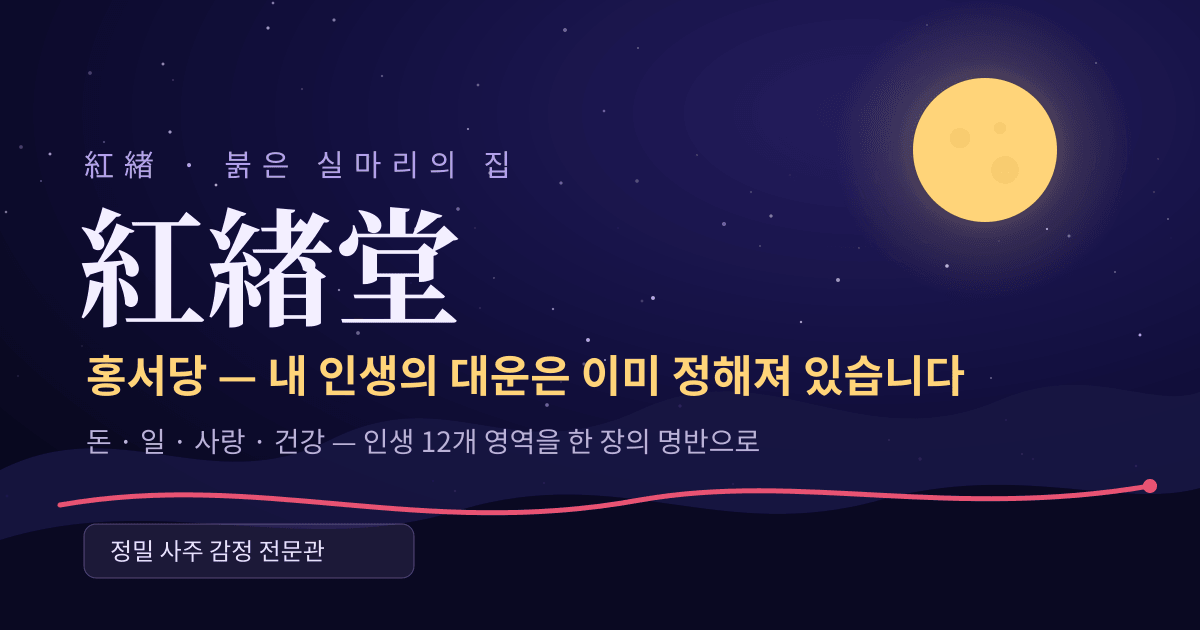
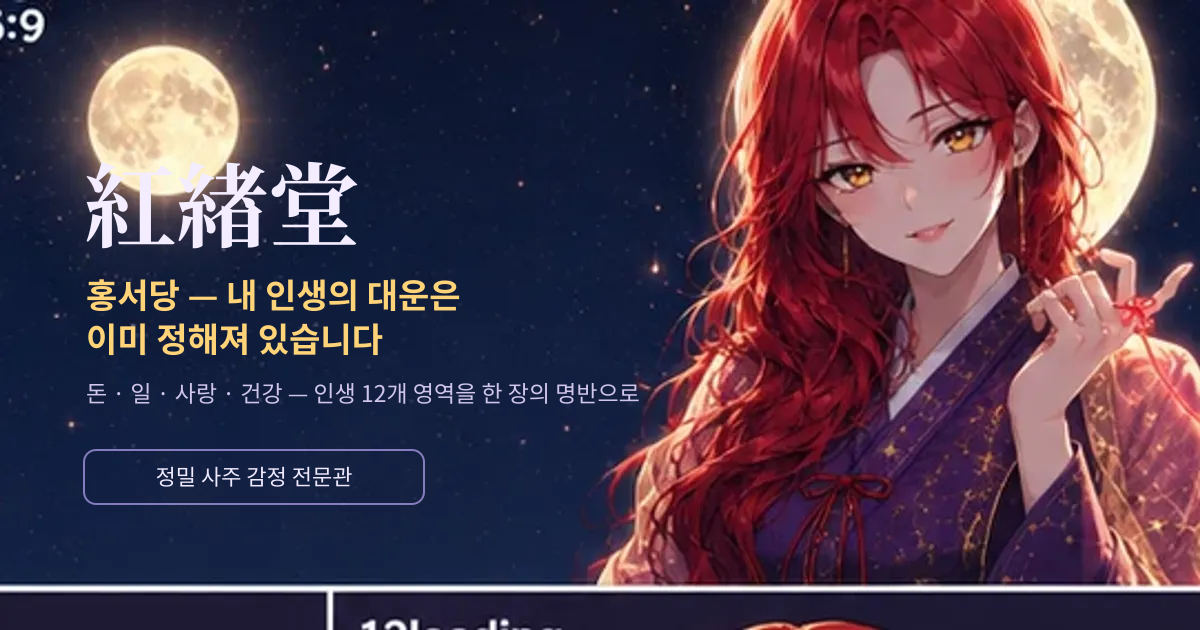
Add files via upload

diff --git a/app/page.js b/app/page.js
@@ -6,7 +6,7 @@
 // ============================================================
 import { useState, useEffect } from "react";
 import { CONFIG } from "../lib/content";
-import ElderArt from "./reading/ElderArt";
+
 
 const LANTERNS = [
   { id: "total", icon: "🔮", t: "전통 자미두수 감정", d: "12개 영역·10년 대운 — 인생 전체를 한 권으로", accent: "#c4b0ff", main: true },
@@ -36,16 +36,20 @@ export default function Hub() {
 
   return (
     <main className="wrap" style={{ paddingTop: 54, paddingBottom: 60, minHeight: "100vh" }}>
-      {/* 월하노인 */}
-      <div style={{ marginBottom: 10 }}><ElderArt size={172} /></div>
-
-      <div className="eyebrow" style={{ textAlign: "center" }}>紅緖堂 · {CONFIG.CLAIM}</div>
-      <h1 className="display" style={{ fontSize: 27, textAlign: "center", margin: "12px 0 8px", color: "var(--tx)", lineHeight: 1.45 }}>
-        달 아래 노인이 묻네.<br />무엇이 궁금해서 오셨는가.
-      </h1>
-      <p style={{ textAlign: "center", fontSize: 13.5, color: "var(--tx-dim)", marginBottom: 26 }}>
-        아래 등불 하나를 고르면, 명반을 펴고 거기서부터 봐드리겠네.
-      </p>
+      {/* 홍서 아씨 — 풀블리드, 밤하늘이 사이트 배경으로 녹아듦 */}
+      <div style={{ margin: "-54px -22px 0" }}>
+        <img src="/char/hero.webp" alt="홍서 아씨" width={379} height={340}
+          style={{ display: "block", width: "100%", height: "auto", WebkitMaskImage: "linear-gradient(to bottom, black 58%, transparent 99%)", maskImage: "linear-gradient(to bottom, black 58%, transparent 99%)" }} />
+      </div>
+      <div style={{ marginTop: -64, position: "relative", zIndex: 2 }}>
+        <div className="eyebrow" style={{ textAlign: "center" }}>紅緖堂 · {CONFIG.CLAIM}</div>
+        <h1 className="display" style={{ fontSize: 26, textAlign: "center", margin: "10px 0 8px", color: "var(--tx)", lineHeight: 1.45, textShadow: "0 2px 18px rgba(11,10,34,.9)" }}>
+          무엇이 궁금해서 오셨어요?
+        </h1>
+        <p style={{ textAlign: "center", fontSize: 13.5, color: "var(--tx-dim)", marginBottom: 24 }}>
+          등불 하나를 고르면, 제가 명반을 펴볼게요.
+        </p>
+      </div>
 
       {/* 재방문 귀갓길 */}
       {(my.r || my.m) && (
@@ -93,8 +97,8 @@ export default function Hub() {
         무료 진단 · 회원가입 없음 · 3분
       </p>
       <p style={{ textAlign: "center", fontSize: 11, color: "var(--tx-dim)", marginTop: 30, lineHeight: 1.8 }}>
-        {CONFIG.BRAND}({CONFIG.BRAND_HANJA}) — 어느 등을 들어도 같은 명반에서 시작하네.<br />
-        紅線 소개팅은 감정서를 받은 이에게 열리는 문일세.
+        {CONFIG.BRAND}({CONFIG.BRAND_HANJA}) — 어느 등을 들어도 같은 명반에서 시작해요.<br />
+        紅線 소개팅은 감정서를 받은 분께 열리는 문이에요.
       </p>
     </main>
   );

diff --git a/app/reading/page.js b/app/reading/page.js
@@ -12,7 +12,7 @@ import {
 } from "../../lib/content";
 import { track } from "@vercel/analytics";
 import ReadingShow from "./ReadingShow";
-import ElderArt from "./ElderArt";
+
 
 const FBQ_MAP = { lead_submitted: "Lead", pay_click: "InitiateCheckout", pay_view: "ViewContent", match_apply: "SubmitApplication" };
 function ev(name, data) {
@@ -527,7 +527,12 @@ function ElderFlow({ step, form, setForm, goto, onSubmit, farthest = 0 }) {
       <div style={{ position: "relative", zIndex: 2 }} key={step} className="fade-step">
         {step === "gender" ? (
           <>
-          {!isEdit && <ElderArt size={168} />}
+          {!isEdit && (
+            <div style={{ margin: "-8px -20px 0" }}>
+              <img src="/char/hero.webp" alt="홍서 아씨" width={379} height={340}
+                style={{ display: "block", width: "100%", height: "auto", WebkitMaskImage: "linear-gradient(to bottom, black 58%, transparent 99%)", maskImage: "linear-gradient(to bottom, black 58%, transparent 99%)", marginBottom: -46 }} />
+            </div>
+          )}
           <p className="say">{ELDER.intro.split("\n").map((l, i) => <span key={i}>{l}<br /></span>)}</p>
           </>
         ) : (
@@ -1096,6 +1101,7 @@ function Payment({ leadId, leadToken, birthYear, onBack , birthLine, onEditBirth
               </button>
             ) : (
               <p style={{ textAlign: "center", fontSize: 13.5, color: "var(--amethyst-hi)", marginTop: 12 }}>
+                <img src="/char/wait.webp" alt="" width={349} height={291} style={{ display: "block", width: 150, height: "auto", margin: "0 auto 6px", WebkitMaskImage: "linear-gradient(to bottom, black 58%, transparent 99%)", maskImage: "linear-gradient(to bottom, black 58%, transparent 99%)" }} />
                 접수되었네. 확인되는 대로 감정서 링크를 문자로 보내줌세.<br /><span style={{ color: "var(--tx-dim)", fontSize: 12 }}>확인은 매일 오전 9시~밤 12시, 보통 1시간 안일세. 심야 입금은 다음 날 오전 9시부터 순서대로 확인하네.</span>
               </p>
             )}

diff --git a/app/not-found.js b/app/not-found.js
@@ -15,7 +15,7 @@ export default function NotFound() {
         padding: "60px 20px",
       }}
     >
-      <div style={{ fontSize: 46, marginBottom: 14 }} aria-hidden="true">🌙</div>
+      <img src="/char/lost.webp" alt="" width={280} height={288} style={{ width: 170, height: "auto", marginBottom: 8, WebkitMaskImage: "radial-gradient(ellipse 70% 62% at 50% 42%, black 62%, transparent 100%)", maskImage: "radial-gradient(ellipse 70% 62% at 50% 42%, black 62%, transparent 100%)" }} />
       <h1 className="display" style={{ fontSize: 24, color: "var(--tx)", marginBottom: 10 }}>
         길을 잃으셨군요
       </h1>

diff --git a/lib/content.js b/lib/content.js
@@ -74,7 +74,7 @@ export const REVIEWS = {
 
 // ---------- 노인 대사 (20% 컨셉) ----------
 export const ELDER = {
-  intro: "달 아래에서 운명을 읽는\n노인일세. 태어난 순간의 별자리 지도,\n그대의 명반(命盤)을 펴줌세.",
+  intro: "홍서당에 오셨네요.\n태어난 순간의 별자리 지도 —\n당신의 명반(命盤), 제가 펴볼게요.",
   gender: { q: "그대는 어느 쪽인가." },
   birth: { q: "태어난 날을 일러주시게.", sub: "음력이면 음력을 고르시게." },
   time: { q: "태어난 시(時)는 언제인가.", sub: "모르면 모른다 하시게." },